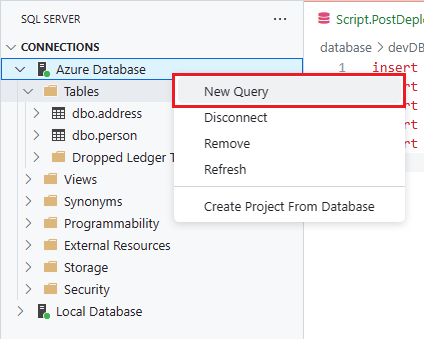
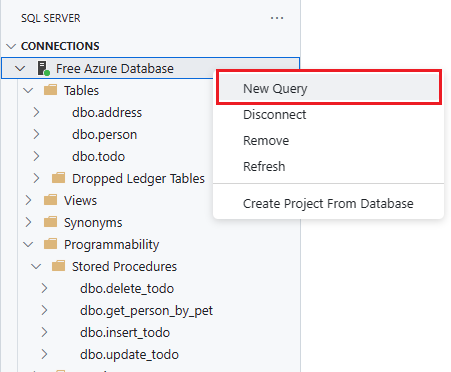
ch6

diff --git a/docs/6-JSON-in-the-db.md b/docs/6-JSON-in-the-db.md
@@ -28,9 +28,9 @@ The available operators are:
 
 ## JSON in the Azure SQL Database workshop tasks
 
-1. Start in the **SQL Server Connections extension** and right click the database profile name, **Azure Database**, and select **New Query**. This will bring up a new query sheet.
+1. Start in the **SQL Server Connections extension** and right click the database profile name, **Free Azure Database**, and select **New Query**. This will bring up a new query sheet.
 
-    ![A picture of right clicking the Azure Database profile name and selecting New Query](./media/ch6/json1.png)
+    ![A picture of right clicking the Free Azure Database profile name and selecting New Query](./media/ch6/json1.png)
 
 1. In the empty query sheet, enter the following SQL code. This statement creates the **Orders** table with the new **JSON** data type.
 
